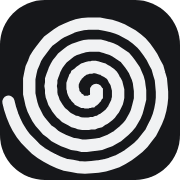
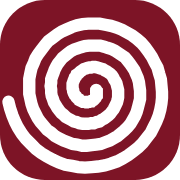
Бело-красно-бордовая палитра; подписи рукавов вынесены за спираль и окрашены вместе с пунктиром
Claude-Session: https://claude.ai/code/session_014MPoTcM97DVjAYcTdmCuqh

diff --git a/index.html b/index.html
@@ -17,31 +17,19 @@
 /* Layout: a pan-and-zoom spiral of work on a cool paper ground; four arms = four directions.
    Clicking any frame opens a quiet, single-column case page. A list view gives the same work as a grid. */
 :root{
-  --ground:#e6e7e9;
-  --paper:#f1f2f3;
-  --ink:#16171a;
-  --muted:#6a6e75;
-  --line:rgba(22,23,26,.12);
-  --trail:rgba(22,23,26,.10);
-  --chip:rgba(22,23,26,.06);
-  --g-brand:#a8742f;
-  --g-web:#b23a48;
-  --g-service:#3b55e6;
-  --g-graphic:#7a4fc4;
-  --g-personal:#2f8a7a;
+  --ground:#fbf9f9;--paper:#ffffff;--ink:#2a0b11;--muted:#8a6a70;--line:rgba(90,15,28,.13);--trail:rgba(90,15,28,.10);--chip:rgba(140,28,43,.07);--accent:#b3121f;--on-accent:#ffffff;
+  --g-brand:#f0a7a3;--g-web:#e2534d;--g-service:#b3121f;--g-graphic:#7d1426;--g-personal:#3e0b16;
   --f-display:"Unbounded","Geologica","Helvetica Neue",Arial,sans-serif;
   --f-ui:"Geologica","Helvetica Neue",Arial,system-ui,sans-serif;
   --gut-l:max(16px, env(safe-area-inset-left, 0px));
   --gut-r:max(16px, env(safe-area-inset-right, 0px));
 }
 @media (prefers-color-scheme: dark){:root:not([data-theme="light"]){
-  --ground:#121316;--paper:#191a1e;--ink:#e8e9eb;--muted:#9a9ea6;--line:rgba(232,233,235,.14);
-  --trail:rgba(232,233,235,.10);--chip:rgba(232,233,235,.08);
-  --g-brand:#d9a25c;--g-web:#e57682;--g-service:#8496ff;--g-graphic:#b597f0;--g-personal:#6fd0bd;color-scheme:dark}}
+  --ground:#140a0c;--paper:#1f1013;--ink:#f6ecec;--muted:#b49499;--line:rgba(246,236,236,.14);--trail:rgba(246,236,236,.10);--chip:rgba(246,236,236,.07);--accent:#ff4d55;--on-accent:#1a0508;
+  --g-brand:#ffd0cd;--g-web:#ff8c86;--g-service:#ff4d55;--g-graphic:#d0344f;--g-personal:#9e2a3e;color-scheme:dark}}
 :root[data-theme="dark"]{
-  --ground:#121316;--paper:#191a1e;--ink:#e8e9eb;--muted:#9a9ea6;--line:rgba(232,233,235,.14);
-  --trail:rgba(232,233,235,.10);--chip:rgba(232,233,235,.08);
-  --g-brand:#d9a25c;--g-web:#e57682;--g-service:#8496ff;--g-graphic:#b597f0;--g-personal:#6fd0bd;color-scheme:dark}
+  --ground:#140a0c;--paper:#1f1013;--ink:#f6ecec;--muted:#b49499;--line:rgba(246,236,236,.14);--trail:rgba(246,236,236,.10);--chip:rgba(246,236,236,.07);--accent:#ff4d55;--on-accent:#1a0508;
+  --g-brand:#ffd0cd;--g-web:#ff8c86;--g-service:#ff4d55;--g-graphic:#d0344f;--g-personal:#9e2a3e;color-scheme:dark}
 
 html,body{height:100%}
 body{background:var(--ground);color:var(--ink);font-family:var(--f-ui);font-size:15px;line-height:1.5;-webkit-font-smoothing:antialiased}
@@ -58,7 +46,7 @@ button{font:inherit;color:inherit}
 .nav{display:flex;gap:4px;align-items:center}
 .nav a{font-size:13px;text-decoration:none;padding:6px 10px;border-radius:99px;color:var(--muted)}
 .nav a:hover{color:var(--ink)}
-.nav a[aria-current="page"]{color:var(--ink);background:var(--chip)}
+.nav a[aria-current="page"]{color:var(--accent);background:var(--chip)}
 
 /* ---------- spiral ---------- */
 #stage{position:fixed;inset:0;display:block;width:100%;height:100%;touch-action:none;cursor:grab}
@@ -78,7 +66,7 @@ button{font:inherit;color:inherit}
 .switch{position:fixed;left:50%;transform:translateX(-50%);bottom:calc(18px + env(safe-area-inset-bottom,0px));z-index:25;display:flex;gap:2px;padding:4px;border-radius:99px;
   background:var(--paper);border:1px solid var(--line);box-shadow:0 8px 28px rgba(0,0,0,.10)}
 .switch a{display:flex;align-items:center;gap:7px;text-decoration:none;font-size:14px;padding:9px 16px;border-radius:99px;color:var(--muted)}
-.switch a[aria-current="page"]{background:var(--ink);color:var(--ground)}
+.switch a[aria-current="page"]{background:var(--accent);color:var(--on-accent)}
 .switch svg{width:15px;height:15px}
 
 /* ---------- pages (list, about, case) ---------- */
@@ -130,7 +118,7 @@ button{font:inherit;color:inherit}
 .btns{display:flex;flex-wrap:wrap;gap:8px;margin-top:22px}
 .btn{display:inline-flex;align-items:center;gap:6px;text-decoration:none;font-size:14px;padding:9px 16px;border-radius:99px;border:1px solid var(--line);background:var(--paper)}
 .btn:hover{border-color:var(--ink)}
-.btn.primary{background:var(--ink);color:var(--ground);border-color:var(--ink)}
+.btn.primary{background:var(--accent);color:var(--on-accent);border-color:var(--accent)}
 .more{margin-top:18px;font-size:14px;color:var(--muted)}
 .next{margin-top:80px;padding-top:28px;border-top:1px solid var(--line);display:flex;justify-content:space-between;gap:16px;flex-wrap:wrap}
 .next a{text-decoration:none;display:flex;flex-direction:column;gap:2px}
@@ -261,7 +249,8 @@ nodes.forEach(n=>{ n.r=Math.hypot(n.x,n.y); n.a=Math.atan2(n.y,n.x); });
 const maxR = Math.max(...nodes.map(n=>n.r+n.rad));
 const armEnd = groups.map((g,gi)=>{
   const ns = nodes.filter(n=>n.arm===gi); let far=ns[0]; ns.forEach(n=>{ if(n.r>far.r) far=n; });
-  return far?{r:far.r+far.rad+60,a:far.a+0.1}:{r:300,a:armBase(gi)};
+  const r = Math.max(far ? far.r+far.rad+40 : 300, maxR + 70);
+  return {r, a: armBase(gi) + r*TWIST};
 });
 
 // 3. images: small file first, sharp file once a frame is shown large
@@ -271,7 +260,7 @@ function wantBig(n){ if(n.bigWanted) return; n.bigWanted=true; const im=new Imag
 function fit(){
   const s = Math.min(W,H);
   const narrow = W < 600;
-  cam.z = Math.max(.08, Math.min(1.5, (s*(narrow?0.6:0.5))/ (maxR + (narrow?0:110))));
+  cam.z = Math.max(.08, Math.min(1.5, (s*(narrow?0.6:0.5))/ (maxR + (narrow?0:150))));
   cam.x = 0; cam.y = narrow ? 90/cam.z : 0;
 }
 function resize(){
@@ -295,6 +284,7 @@ function drawTrail(gi, col){
     ctx.beginPath(); ctx.ellipse(sx,sy,rr*1.6,rr,a,0,Math.PI*2); ctx.fill();
   }
 }
+function onColor(hex){ const m=hex.replace('#',''); const n=parseInt(m.length===3?m.split('').map(c=>c+c).join(''):m,16); const r=(n>>16&255)/255,g=(n>>8&255)/255,b=(n&255)/255; const L=.2126*r+.7152*g+.0722*b; return L>.55?'#2a0b11':'#ffffff'; }
 const ease = t => t<.5 ? 2*t*t : 1-Math.pow(-2*t+2,2)/2;
 let drawOrder = nodes.slice();
 let last = 0;
@@ -304,8 +294,8 @@ function frame(t){
     if(!reduce && !drag && !hover) rot += 0.00016*dt/16;
     ctx.setTransform(DPR,0,0,DPR,0,0);
     ctx.clearRect(0,0,W,H);
-    const trail = css('--trail');
-    groups.forEach((g,gi)=>drawTrail(gi, trail));
+    groups.forEach((g,gi)=>{ ctx.globalAlpha = focus && focus!==g.id ? .1 : .9; drawTrail(gi, css('--g-'+g.id)); });
+    ctx.globalAlpha = 1;
     const step = reduce ? 1 : dt/160;
     nodes.forEach(n=>{ n.ht = Math.max(0, Math.min(1, n.ht + (hover===n? step : -step))); });
     drawOrder = nodes.slice().sort((a,b)=>a.ht-b.ht);
@@ -328,16 +318,18 @@ function frame(t){
     ctx.font = `500 13px ${css('--f-ui')}`;
     ctx.textBaseline='middle';
     groups.forEach((g,gi)=>{
-      const e=armEnd[gi]; const a=e.a+rot; const [sx,sy]=toScreen(Math.cos(a)*e.r, Math.sin(a)*e.r);
+      const e=armEnd[gi]; const a=e.a+rot; let [sx,sy]=toScreen(Math.cos(a)*e.r, Math.sin(a)*e.r);
       ctx.globalAlpha = (focus && focus!==g.id)?.3:1;
       if(W>=600){
-        const tw = ctx.measureText(g.name).width, px = sx-20, py = sy-13, pw = tw+34, ph = 26;
-        ctx.fillStyle = css('--paper'); ctx.strokeStyle = css('--line'); ctx.lineWidth = 1;
-        ctx.beginPath(); ctx.roundRect ? ctx.roundRect(px,py,pw,ph,13) : ctx.rect(px,py,pw,ph); ctx.fill(); ctx.stroke();
-        ctx.fillStyle = ink; ctx.textAlign='left'; ctx.fillText(g.name, sx, sy);
+        const col = css('--g-'+g.id);
+        const tw = ctx.measureText(g.name).width, pw = tw+28, ph = 28; const left = Math.cos(e.a+rot) < 0; const px = left ? sx-pw+6 : sx-6, py = sy-14; sx = px+14;
+        ctx.fillStyle = col;
+        ctx.beginPath(); ctx.roundRect ? ctx.roundRect(px,py,pw,ph,14) : ctx.rect(px,py,pw,ph); ctx.fill();
+        ctx.fillStyle = onColor(col); ctx.textAlign='left'; ctx.fillText(g.name, sx, sy+0.5);
+      } else {
+        ctx.fillStyle = css('--g-'+g.id);
+        ctx.beginPath(); ctx.arc(sx, sy, 5, 0, Math.PI*2); ctx.fill();
       }
-      ctx.fillStyle = css('--g-'+g.id);
-      ctx.beginPath(); ctx.arc(sx-9, sy, 3.5, 0, Math.PI*2); ctx.fill();
     });
     ctx.globalAlpha=1;
   }
@@ -387,10 +379,13 @@ legend.innerHTML = groups.map(g=>{
   const n = cases.filter(c=>c.g===g.id).length;
   return `<button type="button" data-g="${g.id}" style="--c:var(--g-${g.id})"><i class="dot"></i>${esc(g.name)} <span class="count">${n}</span></button>`;
 }).join('');
+legend.addEventListener('pointerover',e=>{ const b=e.target.closest('button'); if(b && !legend.dataset.lock){ focus=b.dataset.g; } });
+legend.addEventListener('pointerleave',()=>{ if(!legend.dataset.lock) focus=null; });
 legend.addEventListener('click',e=>{
   const b=e.target.closest('button'); if(!b) return;
-  focus = focus===b.dataset.g? null : b.dataset.g;
-  legend.querySelectorAll('button').forEach(x=>x.classList.toggle('on',x.dataset.g===focus));
+  if(legend.dataset.lock===b.dataset.g){ delete legend.dataset.lock; focus=null; }
+  else { legend.dataset.lock=b.dataset.g; focus=b.dataset.g; }
+  legend.querySelectorAll('button').forEach(x=>x.classList.toggle('on',x.dataset.g===legend.dataset.lock));
 });
 
 /* ---------------- pages ---------------- */
